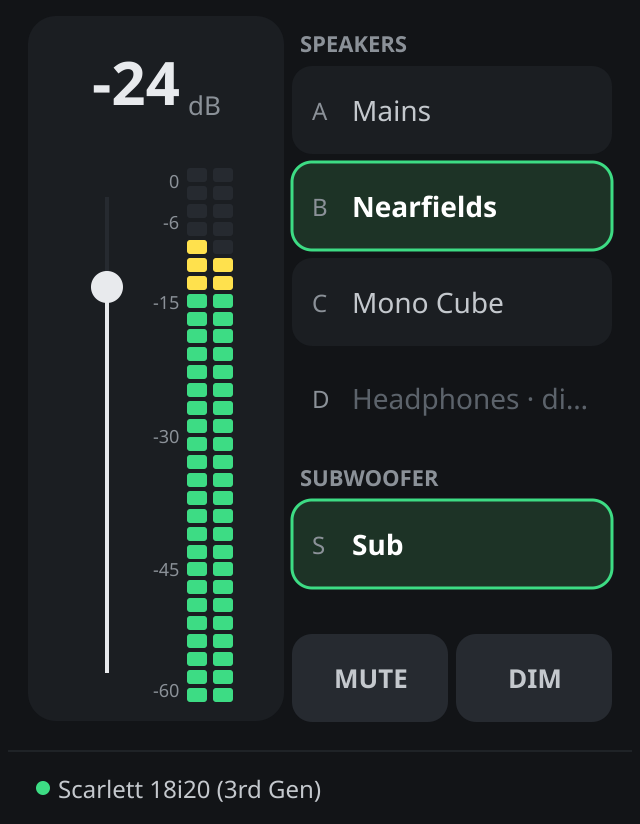
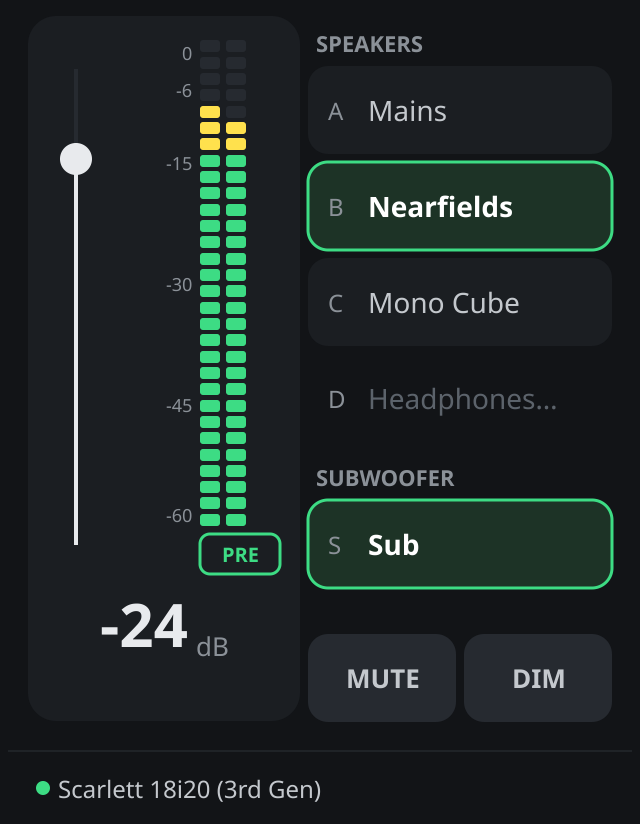
feat(ui): PRE/POST switch under the meter; volume at the bottom
As in the mock-up: a small switch with green outline and green text
under the meter shows PRE or POST and toggles on click; the volume
readout moves to the bottom of the channel strip. The Configuration
window gets the Pre/Post MIDI key. The TouchOSC layout gains a POST
toggle under the meters; docs and screenshots updated.

diff --git a/internal/ui/app.go b/internal/ui/app.go
@@ -48,6 +48,7 @@ type App struct {
 	volume   *canvas.Text
 	volBox   *fyne.Container // re-laid out when the number's width changes
 	volNote  *canvas.Text
+	prePost  *blockButton
 	fader    *Fader
 	meter    *Meter
 	speakers [domain.NumSpeakers]*blockButton
@@ -106,7 +107,8 @@ func (a *App) buildMain() {
 	a.window.Resize(fyne.NewSize(320, 440))
 }
 
-// channelStrip is the left column: volume, fader and meter.
+// channelStrip is the left column: fader and meter with the PRE/POST
+// switch, the volume below.
 func (a *App) channelStrip() fyne.CanvasObject {
 	a.volume = canvas.NewText("", colText)
 	a.volume.TextSize = 30
@@ -117,17 +119,23 @@ func (a *App) channelStrip() fyne.CanvasObject {
 	a.volNote.TextSize = 11
 	a.volNote.Alignment = fyne.TextAlignCenter
 	a.volBox = container.NewCenter(container.NewHBox(a.volume, container.NewVBox(layout.NewSpacer(), unit)))
-	header := container.NewVBox(a.volBox, a.volNote)
+	footer := container.NewVBox(a.volBox, a.volNote)
 
 	a.fader = NewFader(func(db int) { a.opts.Submit(domain.SetVolume{DB: db}) })
 	a.meter = NewMeter()
-	center := container.NewHBox(layout.NewSpacer(), a.fader, newMeterScale(), a.meter, layout.NewSpacer())
+	a.prePost = newTagButton("PRE", func() { a.opts.Submit(domain.ToggleMeterPost{}) })
+	// The scale gets the same bottom space as the meter, so both stay aligned.
+	gap := canvas.NewRectangle(color.Transparent)
+	gap.SetMinSize(a.prePost.MinSize())
+	scale := container.NewBorder(nil, gap, nil, nil, newMeterScale())
+	meter := container.NewBorder(nil, container.NewCenter(a.prePost), nil, nil, a.meter)
+	center := container.NewHBox(layout.NewSpacer(), a.fader, scale, meter, layout.NewSpacer())
 
 	bg := canvas.NewRectangle(colPanel)
 	bg.CornerRadius = 14
 	bg.SetMinSize(fyne.NewSize(128, 0))
 	return container.NewStack(bg, container.New(layout.NewCustomPaddedLayout(12, 10, 10, 10),
-		container.NewBorder(header, nil, nil, nil, center)))
+		container.NewBorder(nil, footer, nil, nil, center)))
 }
 
 // speakerList is the right column above Mute and Dim: one row per speaker,
@@ -251,7 +259,9 @@ func (a *App) render(s domain.Snapshot) {
 	}
 	a.fader.SetDB(st.Master.VolumeDB)
 	a.fader.SetDisabled(!active)
-	a.meter.SetLevels(s.Levels.LeftDB, s.Levels.RightDB)
+	ml := s.MeterLevels()
+	a.meter.SetLevels(ml.LeftDB, ml.RightDB)
+	a.prePost.setText(map[bool]string{false: "PRE", true: "POST"}[st.Master.MeterPost])
 	a.meter.SetDisabled(!active)
 
 	for _, id := range domain.Speakers {

diff --git a/internal/ui/block.go b/internal/ui/block.go
@@ -22,6 +22,7 @@ type blockButton struct {
 	label *canvas.Text // shows text, shortened with "…" when it does not fit
 	text  string
 	align fyne.TextAlign
+	min   fyne.Size
 }
 
 func newBlockButton(text string, align fyne.TextAlign, tapped func()) *blockButton {
@@ -32,6 +33,7 @@ func newBlockButton(text string, align fyne.TextAlign, tapped func()) *blockButt
 		label:   canvas.NewText(text, colTextIdle),
 		text:    text,
 		align:   align,
+		min:     fyne.NewSize(60, 44),
 	}
 	b.bg.CornerRadius = 10
 	b.label.TextSize = 14
@@ -88,7 +90,17 @@ func (b *blockButton) Cursor() desktop.Cursor {
 	return desktop.DefaultCursor
 }
 
-func (b *blockButton) MinSize() fyne.Size { return fyne.NewSize(60, 44) }
+func (b *blockButton) MinSize() fyne.Size { return b.min }
+
+// newTagButton is a small outlined button, like the meter's PRE/POST switch.
+func newTagButton(text string, tapped func()) *blockButton {
+	b := newBlockButton(text, fyne.TextAlignCenter, tapped)
+	b.min = fyne.NewSize(40, 20)
+	b.bg.CornerRadius = 5
+	b.label.TextSize = 10
+	b.style(color.Transparent, colGreen, colGreen, true)
+	return b
+}
 
 func (b *blockButton) CreateRenderer() fyne.WidgetRenderer {
 	return &blockRenderer{b: b}

diff --git a/internal/ui/ui_test.go b/internal/ui/ui_test.go
@@ -240,3 +240,29 @@ func TestLongNamesAreShortened(t *testing.T) {
 		t.Errorf("label shortened although it fits: %q", b.label.Text)
 	}
 }
+
+func TestPrePostSwitch(t *testing.T) {
+	a, cmds := newTestApp(t)
+	s := domain.Snapshot{State: domain.DefaultState(), Device: connected()}
+	s.State.Master.Mute, s.State.Master.VolumeDB = false, -30
+	s.Levels = domain.Levels{LeftDB: -6, RightDB: -6}
+	a.render(s)
+	if a.prePost.Text() != "PRE" || a.meter.left != -6 {
+		t.Errorf("pre: switch %q, meter %v", a.prePost.Text(), a.meter.left)
+	}
+
+	test.Tap(a.prePost)
+	if len(*cmds) != 1 || (*cmds)[0] != (domain.ToggleMeterPost{}) {
+		t.Fatalf("commands = %#v", *cmds)
+	}
+
+	a.meter.left, a.meter.right = meterMinDB, meterMinDB
+	s.State.Master.MeterPost = true
+	a.render(s)
+	if a.prePost.Text() != "POST" || a.meter.left != -36 {
+		t.Errorf("post: switch %q, meter %v; want POST and -36", a.prePost.Text(), a.meter.left)
+	}
+	if a.prePost.bg.StrokeColor != colGreen || a.prePost.label.Color != colGreen {
+		t.Error("the switch must have a green outline and green text")
+	}
+}

diff --git a/internal/osc/touchosc/layout.go b/internal/osc/touchosc/layout.go
@@ -93,8 +93,11 @@ func root() node {
 		label("device", frame{20, 50, 560, 30}, grey, 16, "", osc.AddrDeviceModel),
 		label("volumeDB", frame{20, 95, 140, 30}, white, 16, "", osc.AddrVolume),
 		slider("volume", frame{20, top, 140, height}, fader, true, osc.AddrVolumeNormalized),
-		slider("meterLeft", frame{175, top, 30, height}, green, false, osc.AddrMeterLeftNormalized),
-		slider("meterRight", frame{210, top, 30, height}, green, false, osc.AddrMeterRightNormalized),
+		slider("meterLeft", frame{175, top, 30, height - 60}, green, false, osc.AddrMeterLeftNormalized),
+		slider("meterRight", frame{210, top, 30, height - 60}, green, false, osc.AddrMeterRightNormalized),
+		// meter pre/post fader: lit when post
+		toggle("meterPost", frame{175, top + height - 50, 65, 50}, green, osc.AddrMeterPost),
+		label("meterPostText", frame{175, top + height - 50, 65, 50}, white, 14, "POST", ""),
 	)
 	for i, id := range domain.Speakers {
 		f := frame{260, top + i*115, 320, 100}

diff --git a/internal/osc/touchosc/layout_test.go b/internal/osc/touchosc/layout_test.go
@@ -83,9 +83,9 @@ func TestAddressesAreKnown(t *testing.T) {
 			}
 		}
 	})
-	// device and volume labels, volume, 2 meters, 5 speakers with names, mute, dim
-	if paths != 17 {
-		t.Errorf("found %d OSC bindings, want 17", paths)
+	// device and volume labels, volume, 2 meters, pre/post, 5 speakers with names, mute, dim
+	if paths != 18 {
+		t.Errorf("found %d OSC bindings, want 18", paths)
 	}
 }
 

diff --git a/internal/ui/settings.go b/internal/ui/settings.go
@@ -186,6 +186,7 @@ func (s *settingsWindow) midiSection() fyne.CanvasObject {
 		widget.NewLabel("Fader:"), channel,
 		widget.NewLabel("Mute:"), key(&m.MuteKey),
 		widget.NewLabel("Dim:"), key(&m.DimKey),
+		widget.NewLabel("Pre/Post:"), key(&m.MeterPostKey),
 		heading("Speaker:"), layout.NewSpacer(),
 	)
 	for i := range m.SpeakerKeys {

diff --git a/README.md b/README.md
@@ -15,7 +15,7 @@ surface, a Stream Deck or any OSC app.
   Exclusive speakers turn the others off; the sub is switched on its own.
 - **Volume, Dim and Mute** for all assigned outputs, with an adjustable dim
   amount.
-- **Level meter** for the selected speakers.
+- **Level meter** for the selected speakers, pre- or post-fader.
 - **Many ways to control it, all in sync:** the app window, the menu bar,
   a Mackie Control (MCU) surface, a Stream Deck, OSC apps such as TouchOSC,
   and the monitor buttons on the interface itself. Press Dim on the
@@ -85,8 +85,9 @@ The app controls the gain, mute and name of the assigned outputs.
 
 ### Main window
 
-- **Channel strip** (left): the volume in dB, with *muted* or *dimmed* below
-  it when active, the volume fader and the level meter.
+- **Channel strip** (left): the volume fader and the level meter with its
+  **PRE/POST** switch, and below them the volume in dB, with *muted* or
+  *dimmed* when active.
 - **Speakers** (right): click a speaker to switch it on or off. The active one
   is outlined in green. Disabled speakers are shown grey.
 - **MUTE** and **DIM**: red and yellow when on.
@@ -114,7 +115,9 @@ macOS the app has no Dock icon; it lives in the menu bar.
 - **Dim** lowers the volume by the dim amount (20 dB by default).
 - **Mute** mutes all outputs.
 - **The meter** shows the levels Focusrite Control reports for the first
-  selected speaker, before the volume is applied.
+  selected speaker. **PRE** (default) shows them before the volume; **POST**
+  applies volume and dim, and the meter is silent while muted. Click the
+  green switch under the meter to change it.
 
 ## Configuration
 
@@ -124,7 +127,7 @@ once; only the connection whose settings changed reconnects.
 | Section | Settings |
 | ------- | -------- |
 | **Monitor Controller** | Dim amount; per speaker *Disabled* and *Exclusive*. |
-| **Midi** | MIDI input and output port, the fader channel, and the keys for Mute, Dim and each speaker. |
+| **Midi** | MIDI input and output port, the fader channel, and the keys for Mute, Dim, the meter's Pre/Post switch and each speaker. |
 | **Focusrite** | The interface, and which stereo output each speaker uses. The monitor Mute and Dim controls of the interface are linked automatically. |
 | **OSC** | OSC server on/off, its port, access from other devices, and targets that always receive the state. |
 
@@ -142,6 +145,7 @@ Default mapping, matching the Stream Deck profile:
 | Volume | Fader 1 |
 | Mute | Mute 1 |
 | Dim | Solo 1 |
+| Meter pre/post | F5 (lit when post) |
 | Speaker A–D | Trim, Touch, Write, F4 |
 | Sub | Read |
 

diff --git a/docs/osc.md b/docs/osc.md
@@ -46,6 +46,8 @@ to see the current value. Numbers may be sent as int, float or bool.
 | `/monitor/speaker/{a,b,c,d,sub}/toggle` | – | in |
 | `/monitor/speaker/{a,b,c,d,sub}/name` | string | out |
 | `/monitor/speaker/{a,b,c,d,sub}/enabled` | int 0/1 | out |
+| `/monitor/meter/post` | int 0/1: meters pre-fader (0) or post-fader (1) | in / out |
+| `/monitor/meter/post/toggle` | – | in |
 | `/monitor/meter/left`, `/monitor/meter/right` | float, dBFS | out, ≤ 20/s |
 | `/monitor/meter/left/normalized`, `…/right/normalized` | float 0…1 over −60…0 dB | out, ≤ 20/s |
 | `/monitor/device/connected` | int 0/1 | out |
@@ -62,7 +64,8 @@ Rules:
   the other speakers off, and the app sends their new state. A disabled
   speaker ignores the request.
 - **Meter** values are the levels Focusrite Control reports for the selected
-  speaker's output, before the volume.
+  speaker's output. Pre-fader (default) they are sent as reported; post-fader
+  the volume and dim are applied, and they are silent while muted.
 
 ## Examples
 

diff --git a/examples/touchosc/README.md b/examples/touchosc/README.md
@@ -1,8 +1,8 @@
 # TouchOSC demo layout
 
 `monitor-controller.tosc` is a layout for [TouchOSC](https://hexler.net/touchosc)
-with the volume fader, a stereo level meter, the speaker buttons with their
-names, and Mute and Dim. Buttons and fader follow the app, so changes made
+with the volume fader, a stereo level meter with a POST switch (meter after
+the volume), the speaker buttons with their names, and Mute and Dim. Buttons and fader follow the app, so changes made
 in the app, on the interface or on a control surface show up in TouchOSC too.
 Speakers disabled in the app are shown grey and cannot be pressed (a small
 script in the layout follows `/monitor/speaker/<x>/enabled`).
